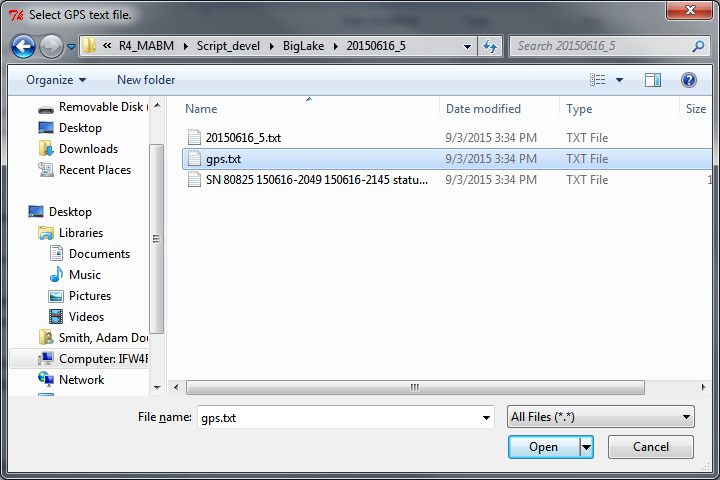
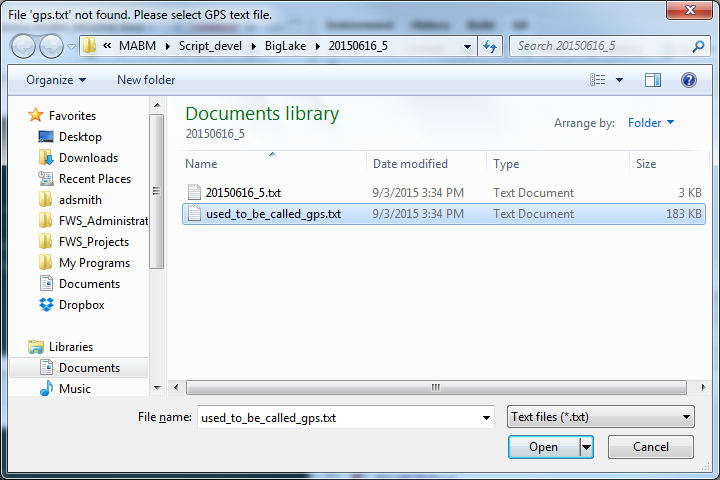
Updated README

diff --git a/README.md b/README.md
@@ -18,15 +18,8 @@ The MABM package requires you to have [R](https://www.r-project.org/) (&gt;= 3.2
 
 With R and Rtools installed, it's simple to install and load the MABM package to access its functionality.
 
-**NOTE: It is currently necessary to use version 0.1.1 of the `readr` package: The current version of `readr` has introduced a bug into one of its functions used by `MABM`. Thus, we need to make sure that an older version of `readr` is installed until this is fixed. Copying and pasting the following code into a *new* R session should do the trick.**
-
     # If devtools package is not installed
     install.packages("devtools", dependencies = TRUE)
-
-    # Once devtools package is installed
-    devtools::install_github("adamdsmith/MABM") # Only the first time
-    packageurl <- "http://cran.r-project.org/src/contrib/Archive/readr/readr_0.1.1.tar.gz"
-    install.packages(packageurl, repos=NULL, type="source")
 
     # Now load MABM
     library("MABM")
@@ -50,23 +43,23 @@ First a dialog box opens that asks the user to specify the MABM route from which
 
 ![Choose your survey route](./README-figs/README-choose_route.png)
 
-A second dialog box prompts the user to specify the fixed width text file containing the logged GPS points.
-
-![Choose the GPS text file](./README-figs/README-choose_GPS.png)
-
-A third and final dialog box asks for the Microsoft Excel file produced by the Bat Call Identification software.
+A second dialog box prompts the user to specify the Microsoft Excel file produced by the Bat Call Identification software. Note that each call to `MABM_route` begins in the current working directory, so changing the working directory (using `setwd`, for example) may save a fair amount of file hierarchy navigation if you'll be repeatedly running the function.
 
 ![Choose the BCID Excel file](./README-figs/README-choose_BCID.png)
 
-Once these are selected, the function creates a new directory in the same folder as the GPS text file that contains a comma-delimited (\*.csv) text file that can be directly imported into the MABM Access database and three shapefiles as described above. Suspected noise files are scrubbed (moved) to a new subdirectory; if no Anabat files or suspected noise files are detected in the directory, scrubbing is ignored. The user is alerted of this activity in the R console:
+By default, the function assumes the fixed width text file containing the logged GPS points is co-located with the BCID file and is called `gps.txt`. If found, the user is notified that `gps.txt` was used as the GPS source. If `gps.txt` is not found, the user is prompted by a third and final dialog box to identify the GPS text file.
+
+![Choose the GPS text file](./README-figs/README-choose_GPS.png)
+
+Once these are selected, the function creates a new directory in the same folder as the BCID classification file that contains a comma-delimited (\*.csv) text file that can be directly imported into the MABM Access database and three shapefiles as described above. Suspected noise files are scrubbed (moved) to a new subdirectory called `scrubbed`; if no Anabat files or suspected noise files are detected in the directory, scrubbing is ignored. The user is alerted of this activity in the R console:
 
 ![Finished!](./README-figs/README-all_done.png)
 
 ### Visualizing the route and bat detections
 
-With the survey route shapefiles created, the `plot_MABM_route` function allows the user to visualize the route and detections without the need to open ArcMap. We use the [leaflet package](http://rstudio.github.io/leaflet) package to facilitate interactivity.
+With the survey route shapefiles created, the `plot_MABM_route` function allows the user to visualize the route and detections without the need to open an alternative GIS program. We use [leaflet](http://rstudio.github.io/leaflet) to facilitate interactivity.
 
-There is only a single argument the user is likely to specify --- how to define a "bad" GPS fix for a bat call detection (`badgps`; default is no GPS fix within 5 seconds of the detection).
+There is only a single argument the user is likely to specify --- how to define a "bad" GPS fix for a bat call detection (`badgps`). By default, `plot_MABM_route` classifies as "bad" those bat detections without a GPS location within 5 seconds of the detection.
 
 For the Big Lake route we georeferenced, we can visualize the route and bat detections using the default options with:
 
@@ -86,7 +79,7 @@ This produces an interactive plot of the route and bat detections (view an inter
 
 A choice of a terrain or aerial imagery basemap is available; aerial imagery has been toggled on in this example.
 
-The route is shaded with a gradient indicating how much time (in minutes) has elapsed since the GPS acquired its first fix; the beginning of the route is blue and transitions to red at its completion. Large gaps in the route (e.g., due to GPS failure) should be apparent if they are present. Clicking on a GPS point along the route provides some information regarding that point (e.g., date, time, elapsed time since survey start).
+The route is shaded with a gradient indicating how much time (in minutes) has elapsed since the GPS acquired its first fix. Large gaps in the route (e.g., due to GPS failure) should be apparent if they are present. Clicking on a GPS point along the route provides some information regarding that point (e.g., date, time, elapsed time since survey start).
 
 Bat detections are indicated by bat icons along the route. Bat icons are colored based on their species classification from the software; these colors will *not* change from route to route so learning them may facilitate interpretation in future plots. Users can toggle the visibility of "good" and "bad" GPS fixes (as defined by the user; see `?plot_MABM_route`), using the layers control feature in the upper right corner of the map. Clicking on a bat icon reveals some information about the detection (e.g., time, species, seconds from the nearest \[in time\] GPS fix).
 
